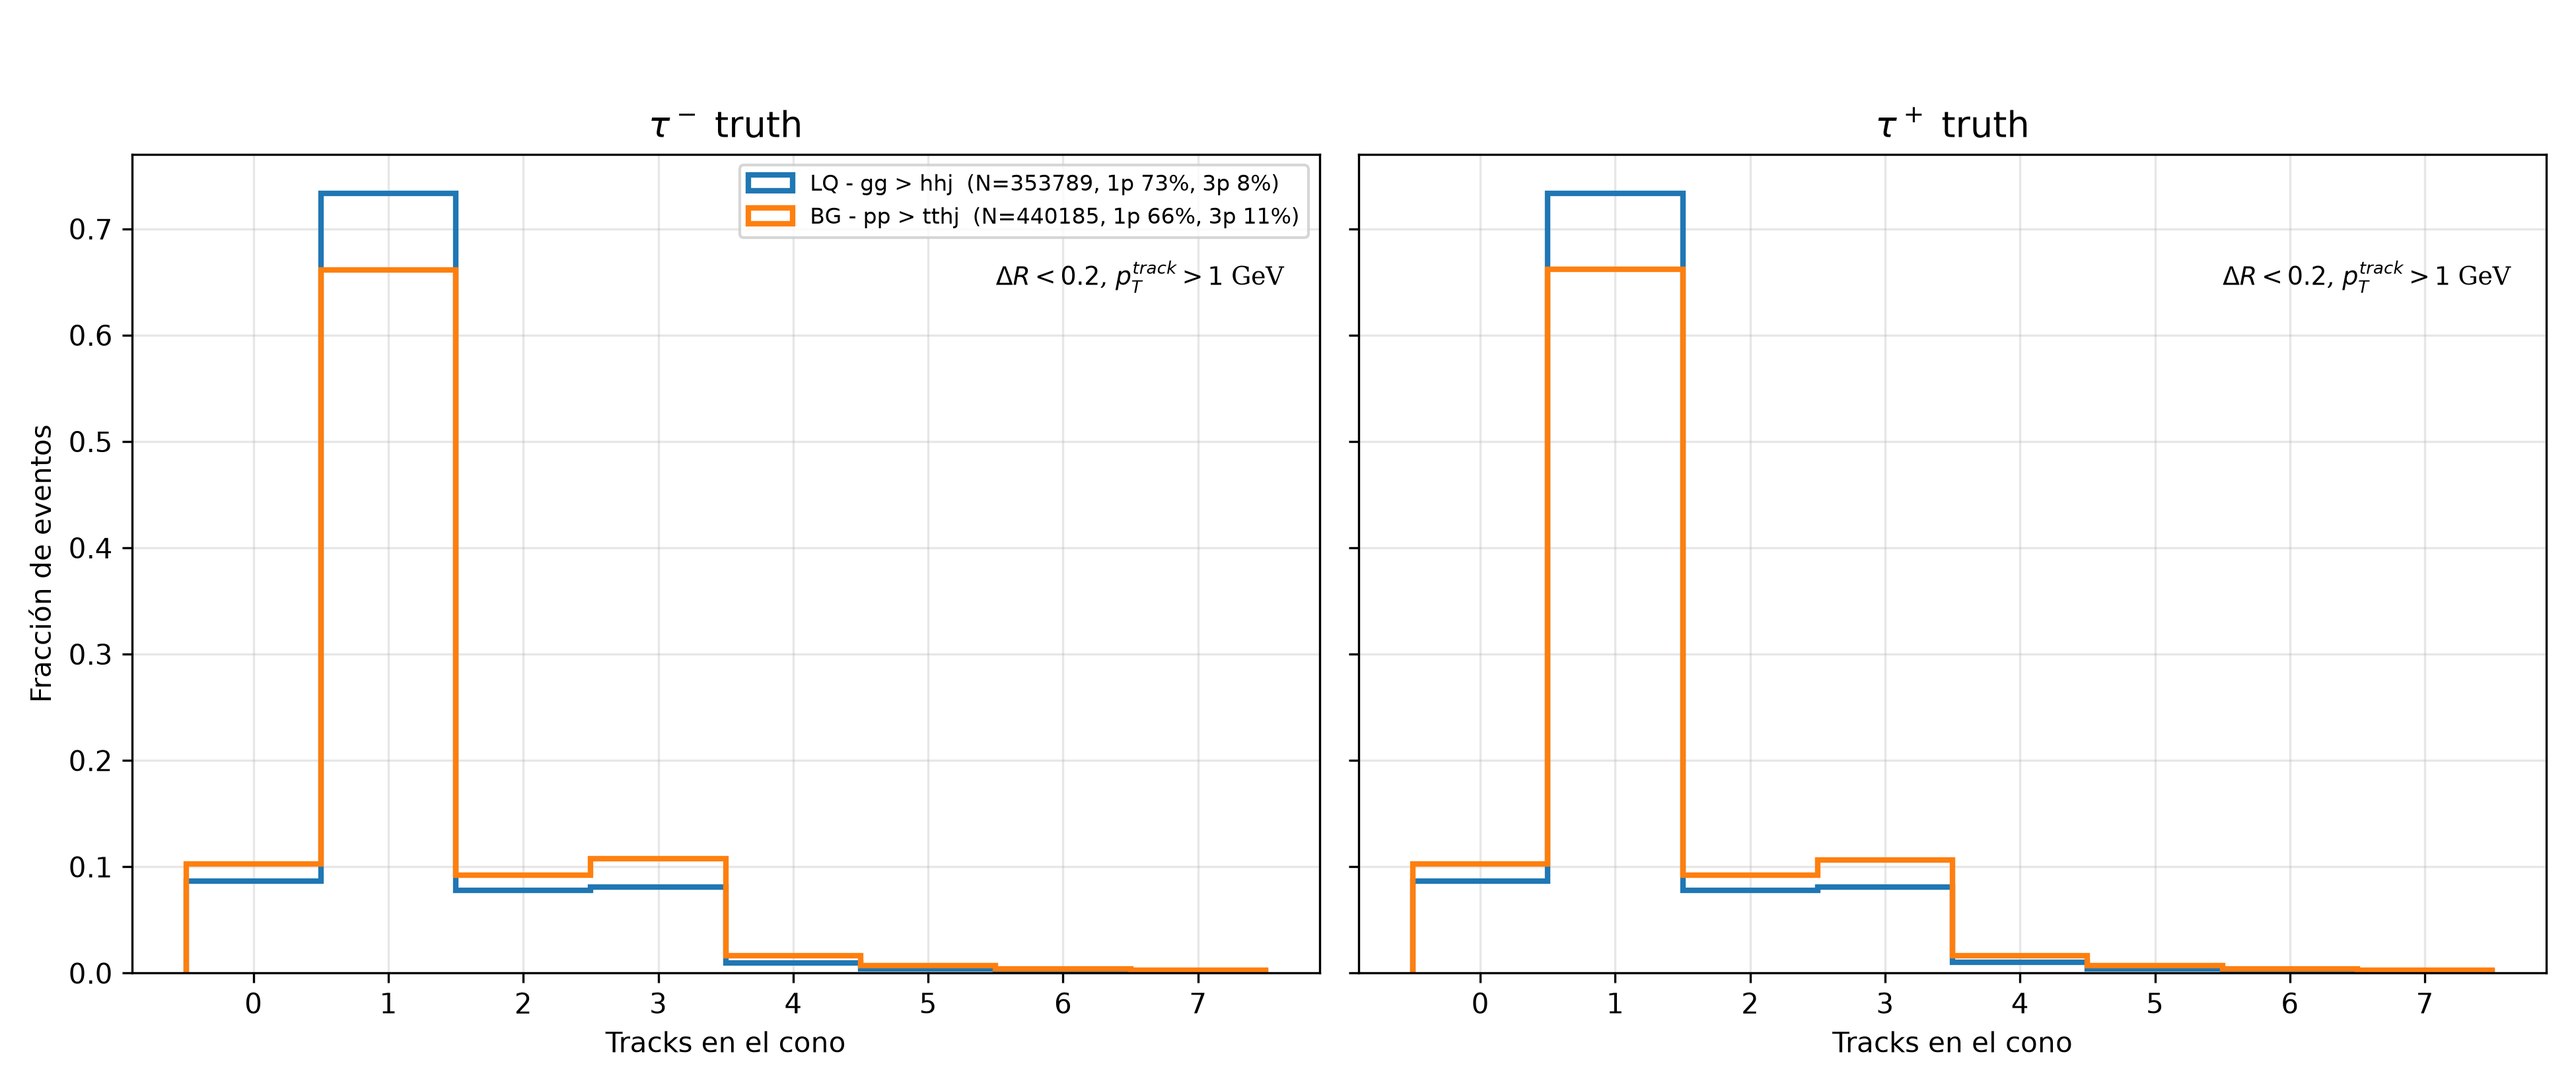
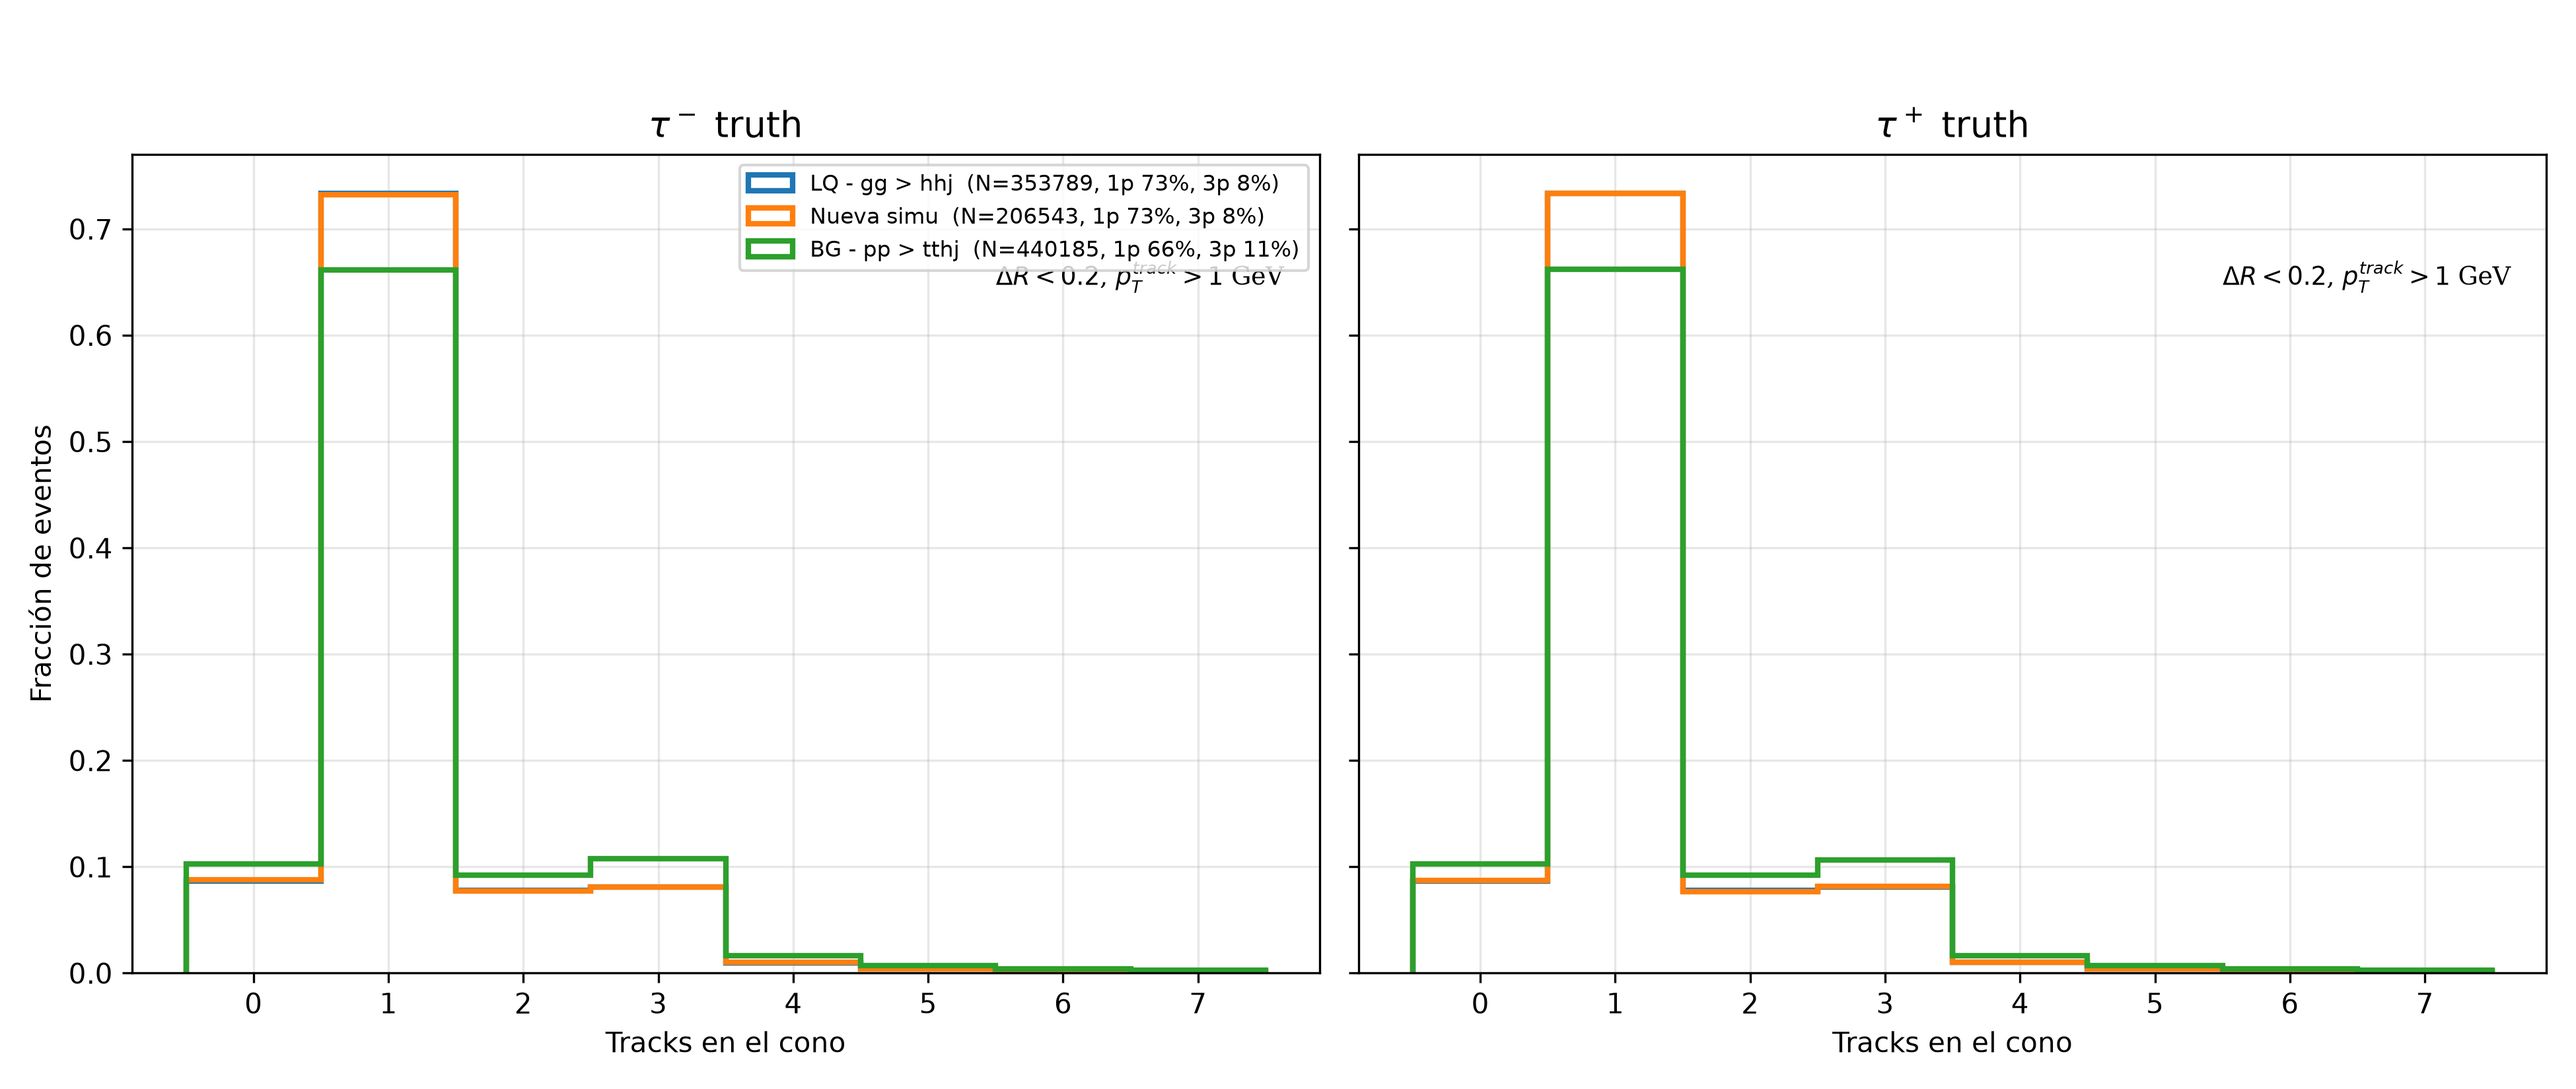
Prueba 3M - con 1.2k eventos generados

diff --git a/RecAnalysis/scripts/ROOT_analyzer.py b/RecAnalysis/scripts/ROOT_analyzer.py
@@ -32,7 +32,7 @@ Pre_eta_jet = 2.5
 Pre_PT_track = 0      # GeV
 Pre_eta_track = 2.5
 
-Delphes = "HL-LHC"
+Delphes = "Prueba3M"
 Energy_label = "14TeV"
 BenchMark = "BM500"
 process = "gg-hhj"
@@ -45,7 +45,7 @@ process = "gg-hhj"
 
 rutas = {
    "LQ - gg > hhj": "/mnt/R5/gbarco/BM500_gghhj_1800k/ROOTs/output_ggHH_bbtata_BP1_81_*_delphes_events.root",
-#   "Nueva simu":  "/mnt/R5/gbarco/BM500_gghhj-3M/ROOTs/output_gg_hhj-3M_116_29_delphes_events.root",
+   "Nueva simu":  "/mnt/R5/gbarco/BM500_gghhj-3M/ROOTs/output_gg_hhj-3M_116_*_delphes_events.root",
    "BG - pp > tthj": "/mnt/R5/gbarco/pp_tthj_1800k/ROOTs/output_pp_tthj_h-tata_1800k_104_*_delphes_events.root", 
 }
 
@@ -227,7 +227,7 @@ E_taus_to_decay  = {key: ak.to_numpy(ak.flatten(t.E))  for key, t in TwoTaus_gen
 X_vertex = {key: ak.to_numpy(ak.flatten(t.vx)) for key, t in TwoTaus_gen.items()}
 Y_vertex = {key: ak.to_numpy(ak.flatten(t.vy)) for key, t in TwoTaus_gen.items()}
 Z_vertex = {key: ak.to_numpy(ak.flatten(t.vz)) for key, t in TwoTaus_gen.items()}
-R_vertex = {key: np.sqrt(X_vertex[key]**2 + Y_vertex[key]**2) for key in X_vertex}
+RT_vertex = {key: np.sqrt(X_vertex[key]**2 + Y_vertex[key]**2 + Z_vertex[key]**2) for key in X_vertex}
 
 # (datos, etiqueta del eje x, rango, nbins, escala log en y)
 paneles = [
@@ -236,7 +236,7 @@ paneles = [
     (Z_vertex,         "z [mm]",       (-5, 5), 100, True),
     (PT_taus_to_decay, r"$p_T$ [GeV]", (0, 500),  60, False),
     (E_taus_to_decay,  r"$E$ [GeV]",   (0, 500),  60, False),
-    (R_vertex,         "r [mm]",       (0, 1),   100, True),
+    (RT_vertex,        r"$r_T$ [mm]",  (0, 1),   100, True),
 ]
 
 fig, axes = plt.subplots(2, 3, figsize=(16, 9))
@@ -551,7 +551,7 @@ w_dz_truthtau = {key: np.full(len(dz_truthtau_tracks[key]), 1.0 / N_tracks_total
 kw = dict(bins=100, histtype="step", linewidth=2)
 
 lim_inf_d0, lim_sup_d0, p_debajo_d0, p_dentro_d0, p_encima_d0 = f.calculo_rangos(-1,1, list(d0_data.values()))
-lim_inf_dz, lim_sup_dz, p_debajo_dz, p_dentro_dz, p_encima_dz = f.calculo_rangos(-5,5, list(dz_data.values()))
+lim_inf_dz, lim_sup_dz, p_debajo_dz, p_dentro_dz, p_encima_dz = f.calculo_rangos(-1,1, list(dz_data.values()))
 
 texto0 = (f"Debajo de {lim_inf_d0} mm : {p_debajo_d0:.2f}%\n"f"Dentro del rango : {p_dentro_d0:.2f}%\n"f"Encima de {lim_sup_d0} mm : {p_encima_d0:.2f}%")
 texto1 = (f"Debajo de {lim_inf_dz} mm : {p_debajo_dz:.2f}%\n"f"Dentro del rango : {p_dentro_dz:.2f}%\n"f"Encima de {lim_sup_dz} mm : {p_encima_dz:.2f}%")
